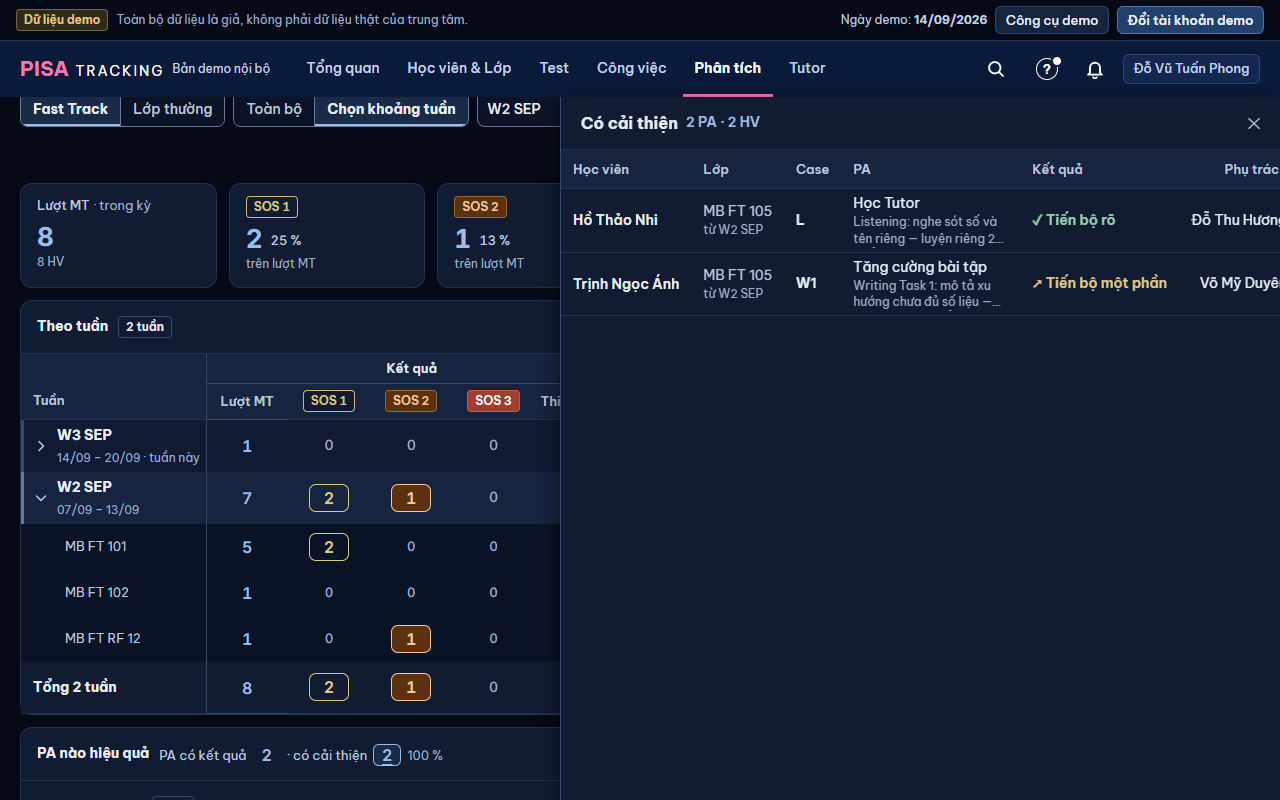
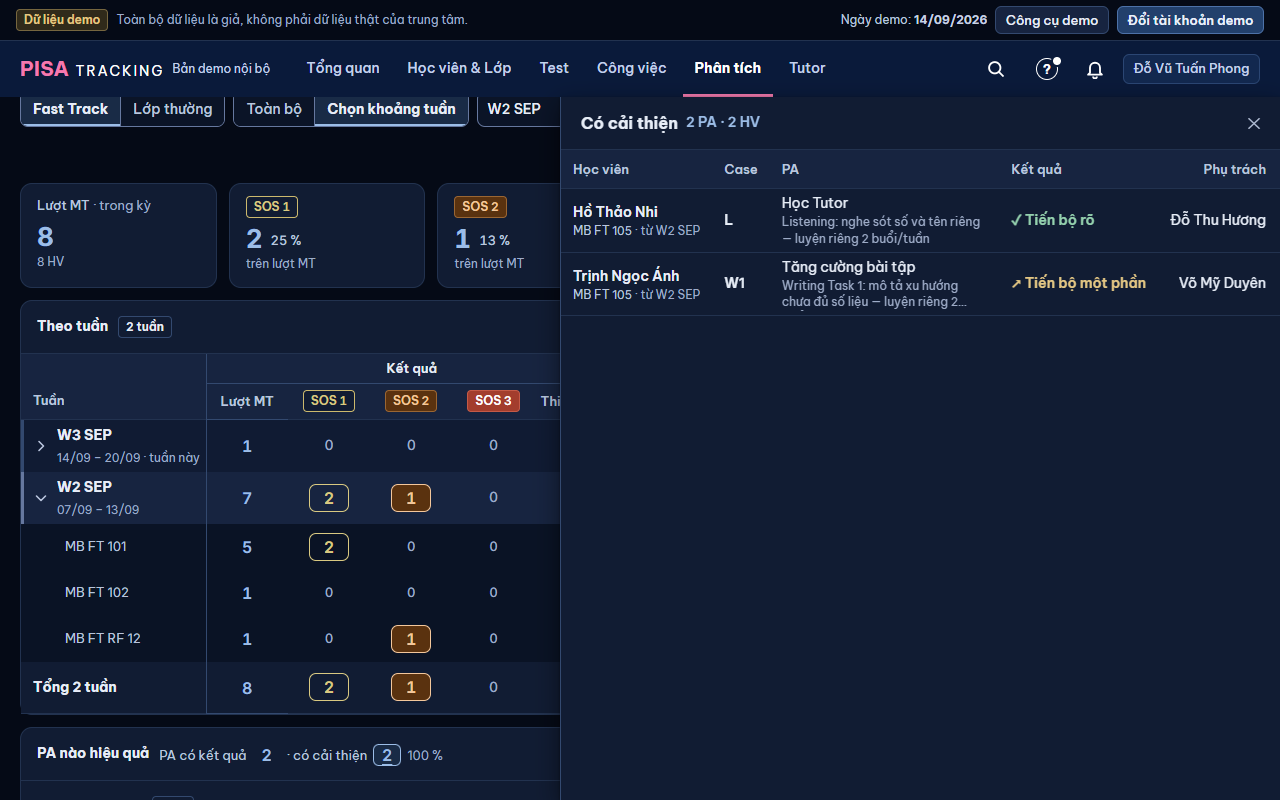
Panel PA: bỏ cột Lớp (xuống dòng phụ dưới tên HV) để cột Phụ trách không bị cắt; đo lại bằng mép chữ

diff --git a/web/src/ui/BangLuotPanel.tsx b/web/src/ui/BangLuotPanel.tsx
@@ -426,7 +426,8 @@ export function BangLuotPanel({ tieuDe, loai = t('Số · Test + SOS'), data, lo
   const MAU_KQ: Record<string, string> = { ok: 'text-ok', warn: 'text-soon', danger: 'text-bad', muted: 'text-faint' };
   const cotP: DinhNghiaCot[] = [
     /* Panel 820, ô 14 (`day`). Tuần bắt đầu PA = dòng phụ dưới Lớp ("từ W3 JUL"). Nghĩa vụ (Phân tích GV, một GV): bỏ cột Người phụ trách — luôn là chính GV đang xem. */
-    { key: 'ten', nhan: t('Học viên'), kieu: 'ten', rong: 140 }, { key: 'lop', nhan: t('Lớp'), kieu: 'chu', rong: 96 }, { key: 'case', nhan: 'Case', kieu: 'chu', rong: 60 },
+    /* PTA 25/11 (panel 720 không đủ 6 cột): Lớp (+ "từ tuần") xuống dòng phụ dưới tên HV, không còn cột riêng. */
+    { key: 'ten', nhan: t('Học viên'), kieu: 'ten', rong: 140 }, { key: 'case', nhan: 'Case', kieu: 'chu', rong: 60 },
     { key: 'pa', nhan: 'PA', kieu: 'chu', linhHoat: true },
     ...(nghiaVu
       ? [{ key: 'han', nhan: t('Hạn'), kieu: 'chu', rong: 104 }, { key: 'ghi', nhan: t('Ngày ghi'), kieu: 'chu', rong: 104 }, { key: 'dung', nhan: t('Đúng hạn'), kieu: 'chu', rong: 124 }] as DinhNghiaCot[]
@@ -641,7 +642,7 @@ export function BangLuotPanel({ tieuDe, loai = t('Số · Test + SOS'), data, lo
               : vpk ? (tatVl.length ? <Bang deu day ten={tieuDe} cot={cotVl} hang={pt.cat(tatVl)} khoa={(h) => h.id} oCua={oVl} khung={false} />
                 : tatVe.length ? <Bang deu day ten={tieuDe} cot={cotVe} hang={pt.cat(tatVe)} khoa={(h) => h.id} oCua={oVe} khung={false} />
                 : <Bang deu day ten={tieuDe} cot={cotVHien} hang={pt.cat(tatV)} khoa={(h) => h.id} oCua={oV} phuCua={(h, c) => (c.key === 'vp' && h.moTa ? h.moTa : c.key === 'ten' ? lkLop(h.classId, h.lop) : null)} khung={false} theRieng={theV} />)
-              : pak ? <Bang deu day ten={tieuDe} cot={cotP} hang={pt.cat(tatP)} khoa={(h) => h.id} oCua={oP} phuCua={(h, c) => (c.key === 'pa' && h.moTa ? h.moTa : c.key === 'lop' && h.batDau && !nghiaVu ? t('từ {tuan}', { tuan: tuanLich(h.batDau, homNay) }) : null)} khung={false} theRieng={theP} />
+              : pak ? <Bang deu day ten={tieuDe} cot={cotP} hang={pt.cat(tatP)} khoa={(h) => h.id} oCua={oP} phuCua={(h, c) => (c.key === 'pa' && h.moTa ? h.moTa : c.key === 'ten' ? <>{lkLop(h.classId, h.lop)}{h.batDau && !nghiaVu && <> · {t('từ {tuan}', { tuan: tuanLich(h.batDau, homNay) })}</>}</> : null)} khung={false} theRieng={theP} />
               : bt ? nhomB.map((g) => (
                 /* A3: tên chương trình (khi panel có hơn một) trên mỗi bảng. */
                 <section key={g.ct} className="grid gap-1.5" aria-label={g.ct}>
